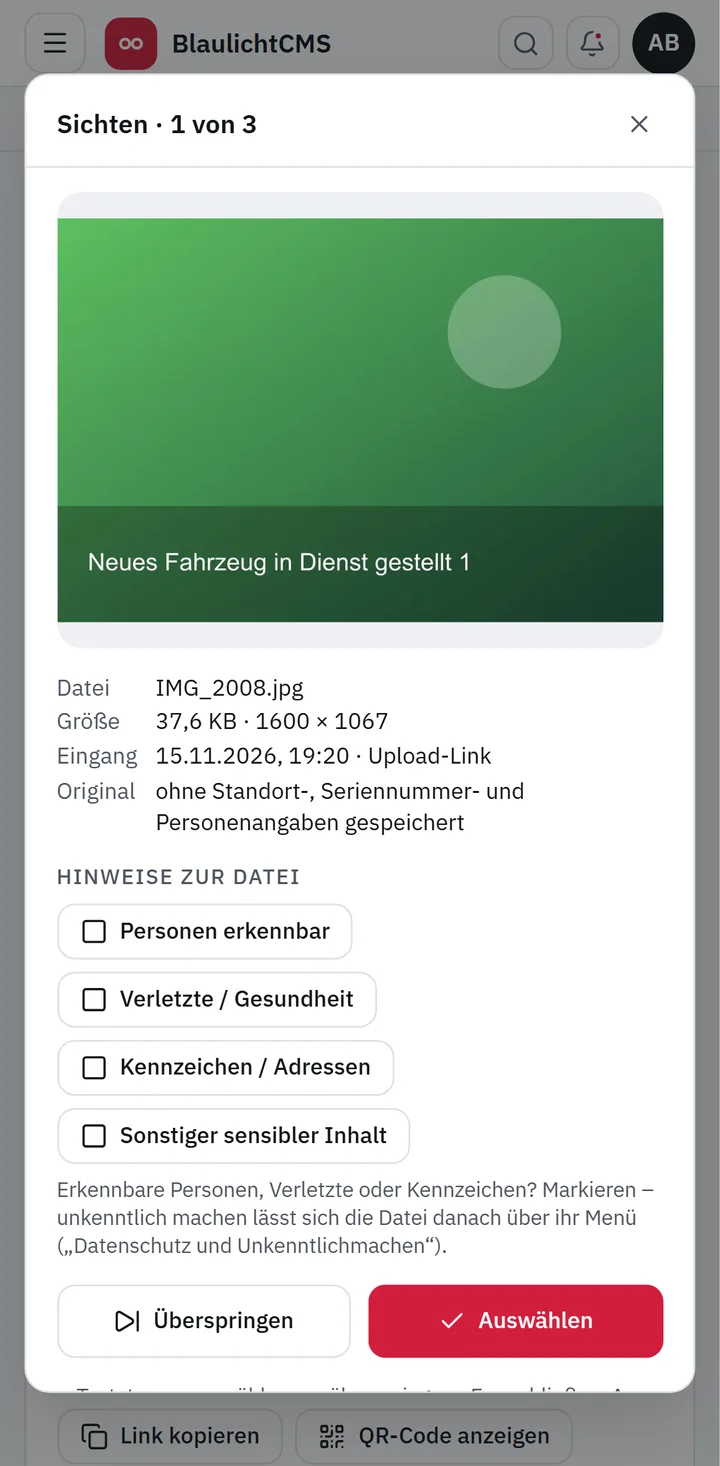
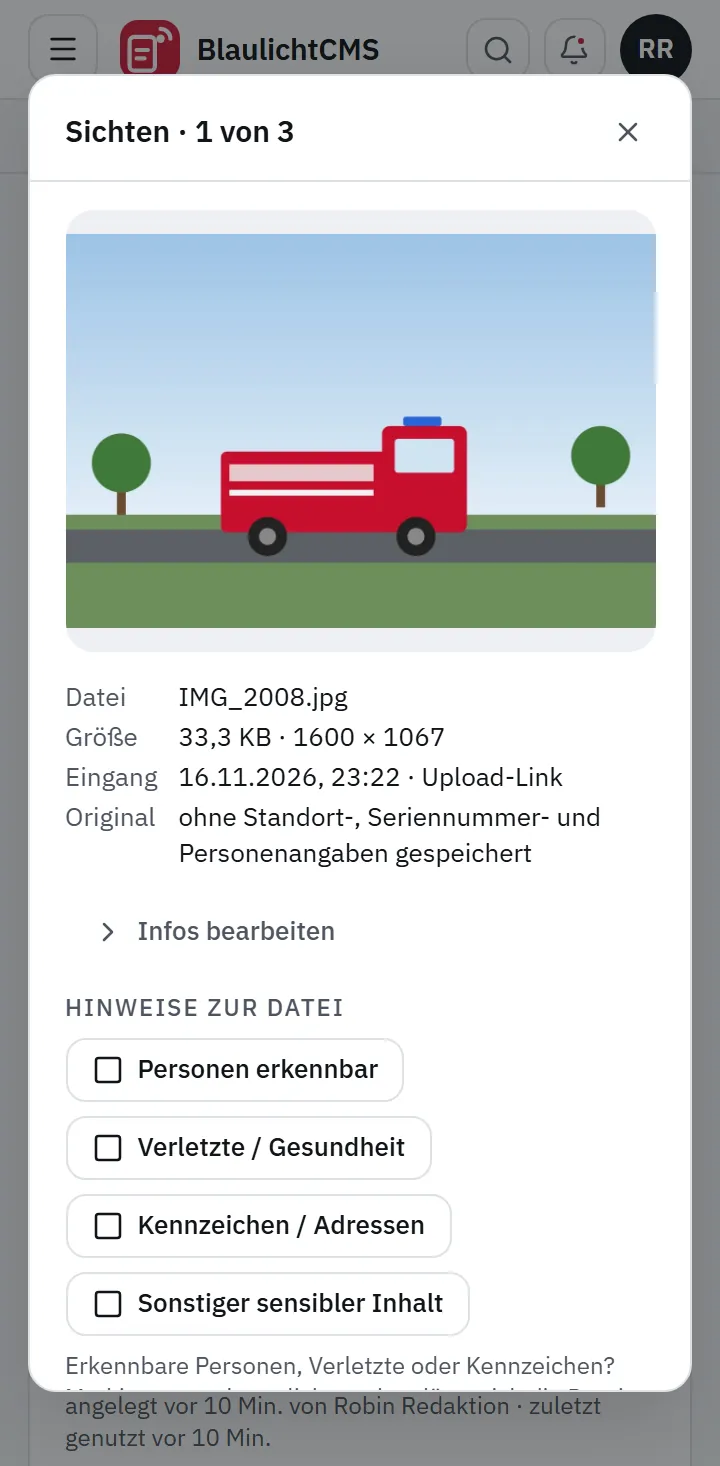
README und Screenshots erneuert (#221)
Alle elf Bilder in docs/bilder neu aufgenommen (neues Logo, Workflows, aktuelle
Navigation) – aus einer Wegwerf-Instanz mit fiktiven Daten („Musterwehr“,
fiktive Konten, gezeichnete Szenen statt Fotos) und echtem WordPress 7.1.4 /
PHP 8.5 mit Bridge 0.9.0. Neu: Workflow (geführte Ansicht), Kalender,
Presseanfragen, Bild aus Vorlage, Reichweite und Einsatzliste auf der Website.

Funktionsübersicht auf Stand nach 0.4.1: 101 Rechte in 15 Bereichen,
31 Hilfe-Kapitel, Workflow-Vorlagen und Baustein „Bild aus Vorlage“,
Presseanfragen bei den Löschfristen, Hinweis auf „Neues Docker-Image nötig“,
Probe-Wiederherstellung im Systemstatus, Prüfungen in der CI.
docs/technik.md: Teststand (rund 600 Server-Tests) und offene Live-Tests für
Presse-Postfach, iCal, Reichweite, Sicherung außer Haus und Push-Freigabe;
Einsatzliste in echtem WordPress gesehen. CLAUDE.md: README vor jedem Release
aktualisieren (verbindliche Regel).

diff --git a/README.md b/README.md
@@ -4,7 +4,7 @@
 
 **Selbst gehostetes Redaktionssystem für Öffentlichkeitsarbeit und Krisenkommunikation**
 
-Fotos per Link vom Handy sammeln · sichten · Beiträge schreiben · Fassung freigeben · auf der Website veröffentlichen – nachvollziehbar und auf dem eigenen Server
+Fotos per Link vom Handy sammeln · sichten · Beiträge schreiben · Fassung freigeben · auf Website und sozialen Kanälen veröffentlichen – dazu Kalender, Presseanfragen, Einsatzliste und Workflows, nachvollziehbar und auf dem eigenen Server
 
 [![CI](https://github.com/thisislennard/BlaulichtCMS/actions/workflows/ci.yml/badge.svg)](https://github.com/thisislennard/BlaulichtCMS/actions/workflows/ci.yml)
 [![Sicherheitsprüfung](https://github.com/thisislennard/BlaulichtCMS/actions/workflows/security.yml/badge.svg)](https://github.com/thisislennard/BlaulichtCMS/actions/workflows/security.yml)
@@ -226,16 +226,16 @@ flowchart LR
 ### Workflows
 
 - **Vorlagen:** „Alarm → Banner auf der Website“, „DWD-Warnung → Banner + Beitragsentwurf“, „Alarm mit
-  Stichwort-Kategorie Brand → Beitragsentwurf“, „Warnung → Benachrichtigen“, „Kalendertermin Übung → Story-Bild + Banner“
-  oder leer beginnen; passende Ein- und
-  Ausgänge werden eingesetzt, offene Plätze hervorgehoben.
+  Stichwort-Kategorie Brand → Beitragsentwurf“, „Warnung → Benachrichtigen“, „Übung im Kalender → Banner
+  ‚Achtung Übung‘“, „Kalendertermin Übung → Story-Bild + Banner“, „Termin von Hand → Story-Bild + Beitragsentwurf“
+  oder leer beginnen; passende Ein- und Ausgänge werden eingesetzt, offene Plätze hervorgehoben.
 - **Geführt in drei Schritten:** *Wenn* (Auslöser) – *Nur wenn* (Feld – Vergleich – Wert, mit Vorschlägen aus dem
   Stichwortverzeichnis) – *Dann* (Aktionen). Fehlende Ein- und Ausgänge direkt im Workflow anlegen. Jeder Workflow
   steht in der Liste und im Editor als ein Satz („Wenn ein neuer Alarm … eingeht, erscheint nach Freigabe auf der
   Website ein Banner …“); eine Checkliste zeigt vor dem Aktivieren, was noch fehlt.
 - **Erweitert – visueller Editor:** Eingänge (FE2-Alarm, Feuersoftware-Einsatz, amtliche Warnung, RSS-Eintrag, neue Uploads,
   Zeitplan, neue Presseanfrage, Kalendereintrag, manueller Start), Verarbeitung (Bedingung, Verzweigung, Felder setzen, Warten, Einmal je Vorgang, Freigabe
-  anfordern, Zusammenführen) und Ausgänge (Banner, Beitrag, E-Mail, App-Benachrichtigung, Warnentwurf vorbereiten, Einsatz in Einsatzliste, Pressemitteilung an Verteiler)
+  anfordern, Zusammenführen, Bild aus Vorlage erzeugen) und Ausgänge (Banner, Beitrag, E-Mail, App-Benachrichtigung, Warnentwurf vorbereiten, Einsatz in Einsatzliste, Pressemitteilung an Verteiler)
   auf einer Fläche verbinden – mit Palette, Minikarte, automatischer Anordnung, Rückgängig und einer Listenansicht für
   Tastatur und Handy.
 - **Ein- und Ausgänge** werden auf eigenen Seiten eingerichtet (z. B. Banner-Stil nach Warnstufe, Beitragsvorlage mit
@@ -255,8 +255,8 @@ flowchart LR
   erreichbar (mit automatischem erneutem Versuch), kein Zugriff, Seite nicht gefunden, Wartung, zu viele Versuche (mit
   Wartezeit) und unerwartete Fehler (mit Details) – jeweils mit Symbol, Erklärung und „Was tun?“.
 - **Dashboard:** Kennzahlen-Reihe und Kacheln in bis zu vier Spalten (offene Freigaben, bestätigter Stand der
-  Veröffentlichungen, neue Uploads, Banner, Websites); per Drag-and-drop mit Maus, Finger oder Tastatur anpassbar,
-  eigene Reihenfolge fürs Handy, Vorlagen für alle oder je Rolle.
+  Veröffentlichungen, neue Uploads, Banner, Websites, Presseanfragen, Reichweite); per Drag-and-drop mit Maus, Finger
+  oder Tastatur anpassbar, eigene Reihenfolge fürs Handy, Vorlagen für alle oder je Rolle.
 - **Live:** neue Uploads, Freigaben und Veröffentlichungen erscheinen ohne Neuladen; Benachrichtigungen in der App.
 - **Push und E-Mail:** je Person und Art wählbar (Freigabe angefordert, Entscheidung, Einsatz-Eingang, neue Fotos,
   amtliche Warnungen, Verbindungsfehler, fehlgeschlagene Workflows, Updates …) – nur Arten, für die das Konto Rechte
@@ -265,14 +265,14 @@ flowchart LR
 - **App für Handy und Computer:** installierbar (PWA) auf Android, iPhone/iPad und am Computer (Chrome, Edge, Safari am Mac – „Zum Dock hinzufügen“), mit eigenem Fenster, Push-Mitteilungen des Betriebssystems, Zähler ungelesener Benachrichtigungen am App-Symbol und Schnellzugriffen auf Neuer Beitrag, Medien sammeln und Freigaben; „App installieren“ im Benutzermenü.
 - **Schnell bedienbar:** Suche und Schnellaktionen mit `Strg` + `K`, vollständig per Tastatur nutzbar, heller und
   dunkler Modus, Design „Leitstand“ für draußen und nachts.
-- **Hilfe-Center:** 26 Kapitel mit Volltextsuche direkt in der App.
+- **Hilfe-Center:** 31 Kapitel mit Volltextsuche direkt in der App.
 
 ### Benutzer und Sicherheit
 
 - **Rollen:** Administration, Medienverwaltung, Redaktion, Freigabe, Veröffentlichung, Warnentwurf, Warnfreigabe,
   Warnversand, Lesezugriff – kombinierbar, Rechte werden bei jeder Aktion serverseitig geprüft.
-- **Eigene Rollen und feine Rechte:** Rollen selbst anlegen, kopieren und anpassen; 80 Rechte je Funktion
-  (ansehen, anlegen, freigeben, veröffentlichen, löschen …) in elf Bereichen. Was jemand nicht darf, wird nicht
+- **Eigene Rollen und feine Rechte:** Rollen selbst anlegen, kopieren und anpassen; 101 Rechte je Funktion
+  (ansehen, anlegen, freigeben, veröffentlichen, löschen …) in 15 Bereichen. Was jemand nicht darf, wird nicht
   angezeigt. Vergabe nur innerhalb der eigenen Rechte, Vorschau der Änderung vor dem Speichern, sofort wirksam;
   die Zwei-Faktor-Pflicht richtet sich nach den Rechten.
 - **Anmeldung:** Einladung per Link, Zwei-Faktor-Anmeldung mit Wiederherstellungscodes, erneute Bestätigung für
@@ -284,7 +284,7 @@ flowchart LR
 
 - **Auskunft und Löschung je Person:** Suche über alle personenbezogenen Daten, Export als ZIP, Löschen oder
   Pseudonymisieren je Treffer.
-- **Löschfristen** für Sammlungen, Upload-Links, Warnvorgänge, Einsatzmeldungen (FE2, Feuersoftware Connect) und Protokolle – mit Vorschau „Was würde
+- **Löschfristen** für Sammlungen, Upload-Links, Warnvorgänge, Einsatzmeldungen (FE2, Feuersoftware Connect), Presseanfragen und Protokolle – mit Vorschau „Was würde
   gelöscht?“.
 - **Vorlagen** für Verarbeitungsverzeichnis und Datenschutz-Folgenabschätzung, Hinweise zu Empfängern wie Meta.
 - **Datenschutzerklärung und Impressum** als eigene öffentliche Seiten (`/datenschutz`, `/impressum`), gepflegt in den
@@ -294,9 +294,14 @@ flowchart LR
 
 - **Ein Container, ein Skript:** Das Installationsskript führt durch die Einrichtung und prüft am Ende die Adresse.
 - **Updates aus der App:** neue Versionen unter *Einstellungen → Updates*, nur mit gültiger Signatur, mit Sicherung
-  vorab und automatischem Rückweg.
+  vorab und automatischem Rückweg. Braucht eine Version ein neues Docker-Image, zeigt die Seite das schon bei der
+  Prüfung und nennt die Schritte am Host (ein Aufruf des Installationsskripts).
 - **Sicherung:** täglich, verschlüsselt, auf Wunsch zusätzlich **außer Haus** auf ein NAS (WebDAV, mit Prüfsummenkontrolle und Aufbewahrung je Tag/Woche/Monat); **Probe-Wiederherstellung** in eine Wegwerf-Datenbank auf Knopfdruck und nach Zeitplan, mit Ergebnisprotokoll im Systemstatus.
-- **Systemstatus:** Dienste, Speicher, Sicherungen, Audit-Integrität, Wartungsmodus und Vorabprüfung vor Updates.
+- **Systemstatus:** Dienste, Speicher, Sicherungen, Probe-Wiederherstellung, Audit-Integrität, Wartungsmodus und
+  Vorabprüfung vor Updates.
+- **Geprüft bei jeder Änderung:** Server-Tests gegen echtes PostgreSQL, Browsertests der Kernabläufe (Einrichtung,
+  Anmeldung mit Zwei-Faktor, Beitrag bis zur Freigabe, Workflow aus Vorlage), Image-Bau und Sicherheitsprüfung;
+  wöchentlich eine Versionsprüfung aller Abhängigkeiten.
 
 ---
 
@@ -313,13 +318,23 @@ flowchart LR
     <td><b>Sammlung</b><br/>Upload-Links mit QR-Code und Aushang<br/><br/><img src="docs/bilder/sammlung.webp" alt="Sammlung"/></td>
   </tr>
   <tr>
-    <td colspan="2"><b>Auf der Website</b><br/>veröffentlicht von der BlaulichtCMS Bridge<br/><br/><img src="docs/bilder/wordpress-beitrag.webp" alt="Beitrag auf WordPress"/></td>
-    <td><b>Hilfe-Center</b><br/>26 Kapitel mit Volltextsuche<br/><br/><img src="docs/bilder/hilfe.webp" alt="Hilfe-Center"/></td>
+    <td><b>Auf der Website</b><br/>veröffentlicht von der BlaulichtCMS Bridge<br/><br/><img src="docs/bilder/wordpress-beitrag.webp" alt="Beitrag auf WordPress"/></td>
+    <td><b>Einsatzliste auf der Website</b><br/>mit Jahresstatistik, freigegeben in BlaulichtCMS<br/><br/><img src="docs/bilder/einsatzliste.webp" alt="Einsatzliste mit Jahresstatistik auf WordPress"/></td>
+    <td><b>Hilfe-Center</b><br/>31 Kapitel mit Volltextsuche<br/><br/><img src="docs/bilder/hilfe.webp" alt="Hilfe-Center"/></td>
   </tr>
   <tr>
     <td><b>Warnentwurf am Handy</b><br/>Stichwort, Lagefragen, Vorschlag<br/><br/><img src="docs/bilder/warnentwurf-handy.webp" alt="Warnentwurf-Assistent am Handy"/></td>
     <td><b>Freigegebene PDF</b><br/>mit bestätigter Warnstufe und Prüfsumme<br/><br/><img src="docs/bilder/warnentwurf-pdf.webp" alt="PDF eines Warnentwurfs"/></td>
     <td><b>Regeln pflegen</b><br/>versioniert, fachlich freigegeben<br/><br/><img src="docs/bilder/warnstufen-regeln.webp" alt="Pflege der Warnstufen-Regeln"/></td>
+  </tr>
+  <tr>
+    <td colspan="2"><b>Workflows</b><br/>geführt in drei Schritten: Wenn – Nur wenn – Dann<br/><br/><img src="docs/bilder/workflow.webp" alt="Workflow in der geführten Ansicht"/></td>
+    <td><b>Kalender</b><br/>Termine, Serien, geplante Beiträge und Fristen<br/><br/><img src="docs/bilder/kalender.webp" alt="Kalender in der Monatsansicht"/></td>
+  </tr>
+  <tr>
+    <td><b>Presseanfragen</b><br/>Status, Zuständigkeit, Frist und Verlauf<br/><br/><img src="docs/bilder/presse.webp" alt="Liste der Presseanfragen"/></td>
+    <td><b>Bild aus Vorlage</b><br/>ausfüllen mit Live-Vorschau<br/><br/><img src="docs/bilder/bildvorlage.webp" alt="Bild aus einer befüllbaren Bildvorlage erzeugen"/></td>
+    <td><b>Reichweite</b><br/>Aufrufe und Interaktionen je Kanal, nur Summen<br/><br/><img src="docs/bilder/reichweite.webp" alt="Reichweite der Social-Posts"/></td>
   </tr>
 </table>
 
@@ -346,7 +361,7 @@ Optionen, Updates, Sicherung, WordPress: **[Installation und Betrieb](docs/insta
 |---|---|
 | [docs/installation.md](docs/installation.md) | Installation, Updates, Sicherung, Wiederherstellung, erste Schritte, WordPress verbinden |
 | [docs/technik.md](docs/technik.md) | Aufbau, Verbindungen, Sicherheit, Leistung, Teststand und Grenzen, Entwicklung, Projektstruktur |
-| [docs/betrieb.md](docs/betrieb.md) | Start, Betriebswerte, Lasttest, Sicherung, Wiederherstellung, Updates, Datenbankrollen, Schlüsselwechsel, Protokollierung und Sicherheitsvorfälle, Notfall |
+| [docs/betrieb.md](docs/betrieb.md) | Start, Betriebswerte, Lasttest, Sicherung (auch außer Haus), Probe-Wiederherstellung, Wiederherstellung, Updates, Datenbankrollen, Schlüsselwechsel, Protokollierung und Sicherheitsvorfälle, Notfall |
 | [docs/reverse-proxy.md](docs/reverse-proxy.md) | HTTPS mit Nginx Proxy Manager, nginx, Caddy, Traefik, HAProxy, IIS |
 | [docs/integrationen.md](docs/integrationen.md) | Stand und Einrichtung je Verbindung, Ergebnisse der Live-Tests |
 | [docs/import.md](docs/import.md) | einmaliger Medienimport (Austauschformat, alte Links, Exportskript für LiFeOS) |
@@ -357,7 +372,7 @@ Optionen, Updates, Sicherung, WordPress: **[Installation und Betrieb](docs/insta
 | [docs/sicherheitspruefung.md](docs/sicherheitspruefung.md) | Ergebnis der Sicherheitsprüfung mit Nachweisen |
 | [docs/datenschutz.md](docs/datenschutz.md) | Datenschutz: Datenkategorien, Empfänger, Löschfristen, TOMs, Vorlagen für Verarbeitungsverzeichnis und DSFA |
 | [docs/entwicklung.md](docs/entwicklung.md) | Entwicklungsumgebung |
-| Hilfe-Center in der App (`/hilfe`) | 26 Kapitel für Redaktion und Administration |
+| Hilfe-Center in der App (`/hilfe`) | 31 Kapitel für Redaktion und Administration |
 
 ---
 

diff --git a/docs/technik.md b/docs/technik.md
@@ -320,7 +320,7 @@ nicht archivierten Beiträge (bei 4 800 Beiträgen ohne Freigaben 46 ms) – Bei
 
 ## Teststand und Grenzen
 
-**Automatisiert (bei jedem Push in der CI):** Typprüfung, rund 200 Server-Tests gegen echtes PostgreSQL (inklusive
+**Automatisiert (bei jedem Push in der CI):** Typprüfung, rund 600 Server-Tests gegen echtes PostgreSQL (inklusive
 Video-Verarbeitung mit ffmpeg), Build, PHP-Lint des Plugins, Probelauf mit Docker Compose (Rollen, Schlüsselwechsel,
 Audit-Kette), Abhängigkeits-, Image- und Secret-Scan sowie Browsertests der Kernabläufe mit Playwright/Chromium
 (Einrichtung mit Zwei-Faktor, Beitrag bis zur Freigabe, Workflow aus Vorlage, Rollen, Dashboard, Fokus-Check).
@@ -346,9 +346,22 @@ Ergebnisse je Verbindung: [docs/integrationen.md](integrationen.md).
   (Hessen: Runderlass vom 30.08.2024, Scan – abgeglichen mit der digitalen Fassung vom 01.11.2022; Bayern: ABek-Anlage
   Stand 15.03.2017, nur Kürzel der Übersicht, ABek laut gesetze-bayern.de befristet bis 16.07.2027). Neue Fassungen
   müssen von Hand nachgetragen werden; `test/keywords.test.ts` prüft Wortlaut-Stichproben und Dubletten.
-- Einsatzliste in WordPress (Bridge 0.9.0, #213): Server, Aufträge und Rückmeldungen sind automatisiert getestet; Darstellung
-  (Liste, Statistik, Detailseite, Einstellungsseite) noch auf einem Test-WordPress mit dem eigenen Theme prüfen. Der
-  CSV-Import folgt dem Exportformat der Erweiterung „Einsatzverwaltung“ (Spaltennamen aus deren Quelltext), nicht einer echten Exportdatei.
+- Einsatzliste in WordPress (Bridge 0.9.0, #213): Server, Aufträge und Rückmeldungen sind automatisiert getestet. Liste,
+  Statistik und Detailseite liefen beim Erstellen der README-Bilder (#221) in WordPress 7.1.4 / PHP 8.5 mit Twenty
+  Twenty-Five (SQLite, Abholung per `wp blaulichtcms-bridge poll`); Einstellungsseite und das eigene Theme der Website
+  noch prüfen. Der CSV-Import folgt dem Exportformat der Erweiterung „Einsatzverwaltung“ (Spaltennamen aus deren
+  Quelltext), nicht einer echten Exportdatei.
+- Presse-Postfach, Antworten und Pressemitteilungen (#205–#207): gegen IMAP-, SMTP- und Graph-Stellvertreter getestet;
+  mit dem echten Postfach (IMAP-Server bzw. Microsoft 365 mit `Mail.Read`) und echter Zustellung samt Abmeldelink in
+  gängigen Mailprogrammen noch prüfen.
+- Kalender (#202): iCal-Abruf mit Beispiel-ICS über einen lokalen Server getestet; echte Kalender (Outlook, Google,
+  Wehr-Kalender) einlesen und das Abo in Outlook, Google und am iPhone noch prüfen.
+- Reichweite (#218): gegen Mastodon- und Bluesky-Stellvertreter getestet; Statistik-Rechte und Zahlen mit echten
+  Konten (Meta ggf. erst nach App-Prüfung, X nur mit eigener API) noch prüfen.
+- Sicherung außer Haus und Probe-Wiederherstellung (#212): gegen einen WebDAV-Stellvertreter mit echtem TLS getestet;
+  mit dem echten NAS (z. B. Synology „WebDAV Server“) und die zeitgesteuerte Probe auf dem Zielhost noch prüfen.
+- Freigabe aus der Push-Mitteilung (#216): Ob ein Gerät Aktionsknöpfe zeigt, entscheidet der Browser; auf echten
+  Geräten (Android, iPhone, Windows, macOS) noch ansehen.
 - Gesichtsvorschläge (#214): Erkennungsrate und Rechenzeit auf echten Einsatzfotos und auf der Zielhardware (2 Kerne)
   messen; geprüft ist das Modell bisher auf gemeinfreien Testfotos und einem Entwicklungsrechner.
 - Datenschutz: Angaben unter *Einstellungen → Datenschutz* ausfüllen, Verarbeitungsverzeichnis und DSFA mit den

diff --git a/docs/entwicklung.md b/docs/entwicklung.md
@@ -37,7 +37,7 @@ startet PostgreSQL) ist für den Container gedacht, funktioniert aber auch lokal
 | Ebene | Befehl | Inhalt |
 |---|---|---|
 | Typprüfung | `npm run typecheck` | Server und Oberfläche |
-| Unit + Integration | `TEST_DATABASE_URL=… npm test` | 90 Tests: Rechte, Krypto, SSRF, Fassungen, Upload, Warnentwürfe, Verbindungen, Import, Sicherheit – braucht ffmpeg und pdftotext |
+| Unit + Integration | `TEST_DATABASE_URL=… npm test` | rund 600 Tests: Rechte, Krypto, SSRF, Fassungen, Upload, Warnentwürfe, Verbindungen, Workflows, Kalender, Presse, Einsatzliste, Import, Sicherheit – braucht ffmpeg und pdftotext |
 | Kernabläufe | `node test/e2e/core-flows.mjs` | Ersteinrichtung mit Zwei-Faktor, Anmeldung mit Code, Beitrag anlegen → einreichen → freigeben (Vier-Augen), Workflow aus Vorlage anlegen und testen (frische Instanz nötig; läuft in der CI) |
 | Fokus-Test | `node test/e2e/focus-check.mjs` | Tippen in alle Textfelder und Dialoge ohne Fokusverlust (laufende Instanz nötig) |
 | Dashboard anpassen | `node test/e2e/dashboard-dnd.mjs` | Verschieben mit Maus, Finger (Touch-Emulation) und Tastatur, Abbrechen, Speichern, Vorlagen (Instanz mit den Testdaten des Fokus-Tests nötig) |

diff --git a/CLAUDE.md b/CLAUDE.md
@@ -25,6 +25,11 @@ Log-Rotation, Limits. Bei Änderungen an Compose/Skripten den Ablauf von `instal
   signieren (`node scripts/bridge-signing.mjs sign C:/Users/thisi/Documents/VScode/BlaulichtCMS-bridge-signing.pem`,
   dann `node scripts/bridge-signing.mjs verify`, siehe `docs/bridge-signatur.md`) – sonst scheitert die CI. Der private Schlüssel gehört nie ins Repository.
 - Migrationen additiv, eine neue Datei je Änderung (`server/migrations/NNN_name.sql`).
+- **Vor jedem Release die README aktualisieren** (verbindlich): Funktionsübersicht mit allen neuen bzw. umbenannten
+  Funktionen, Versions-Badge und Hinweis, Zahlen (Rechte aus `server/src/auth/permissions.ts`, Hilfe-Kapitel unter
+  `web/src/pages/help/content/`), Screenshots in `docs/bilder/` neu aufnehmen, wenn sich die Oberfläche sichtbar
+  geändert hat (Testinstanz mit fiktiven Daten, keine echten Namen, keine Schlüssel/Codes im Bild, heller Modus, WebP).
+  Keine sicherheitskritischen Details in die README.
 
 ## Lokal ohne Docker (Windows)
 
